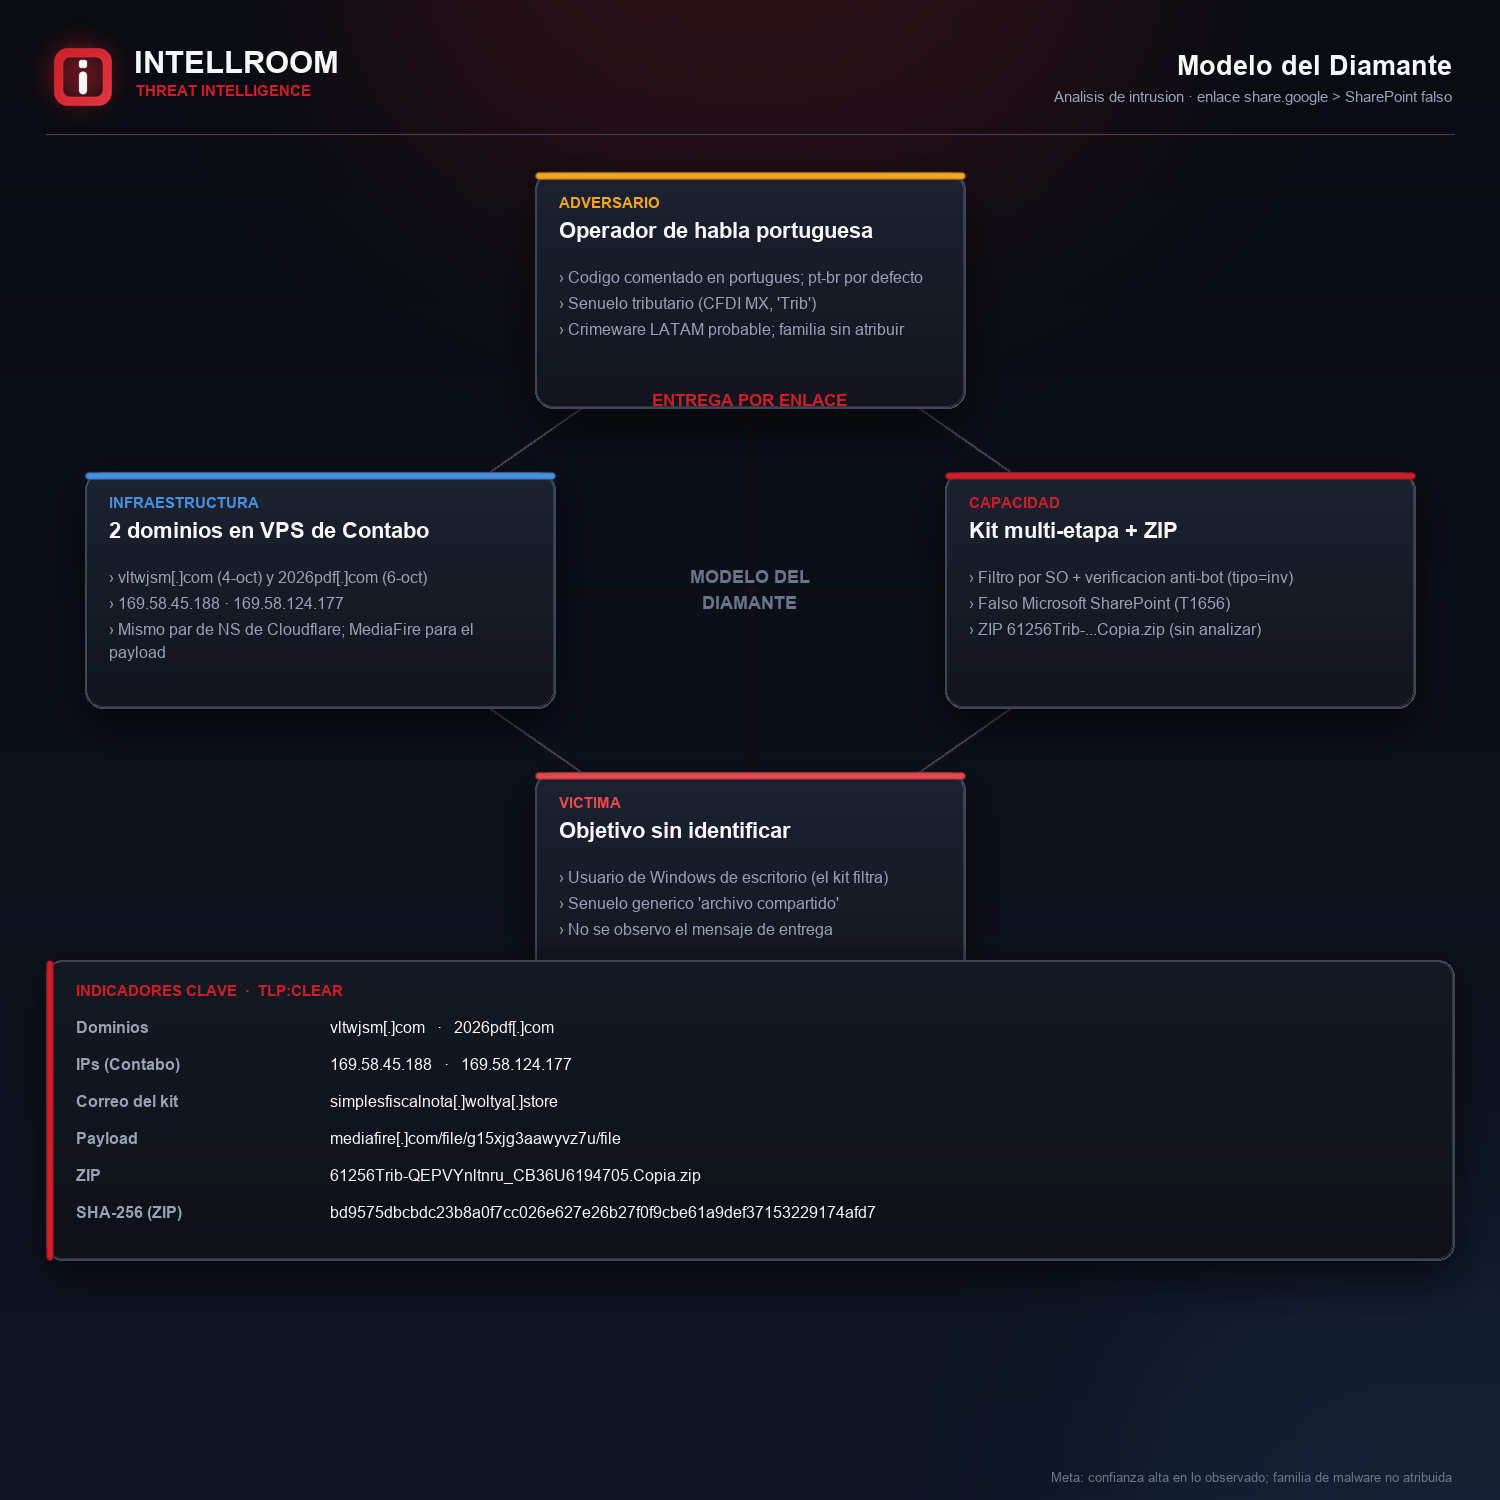
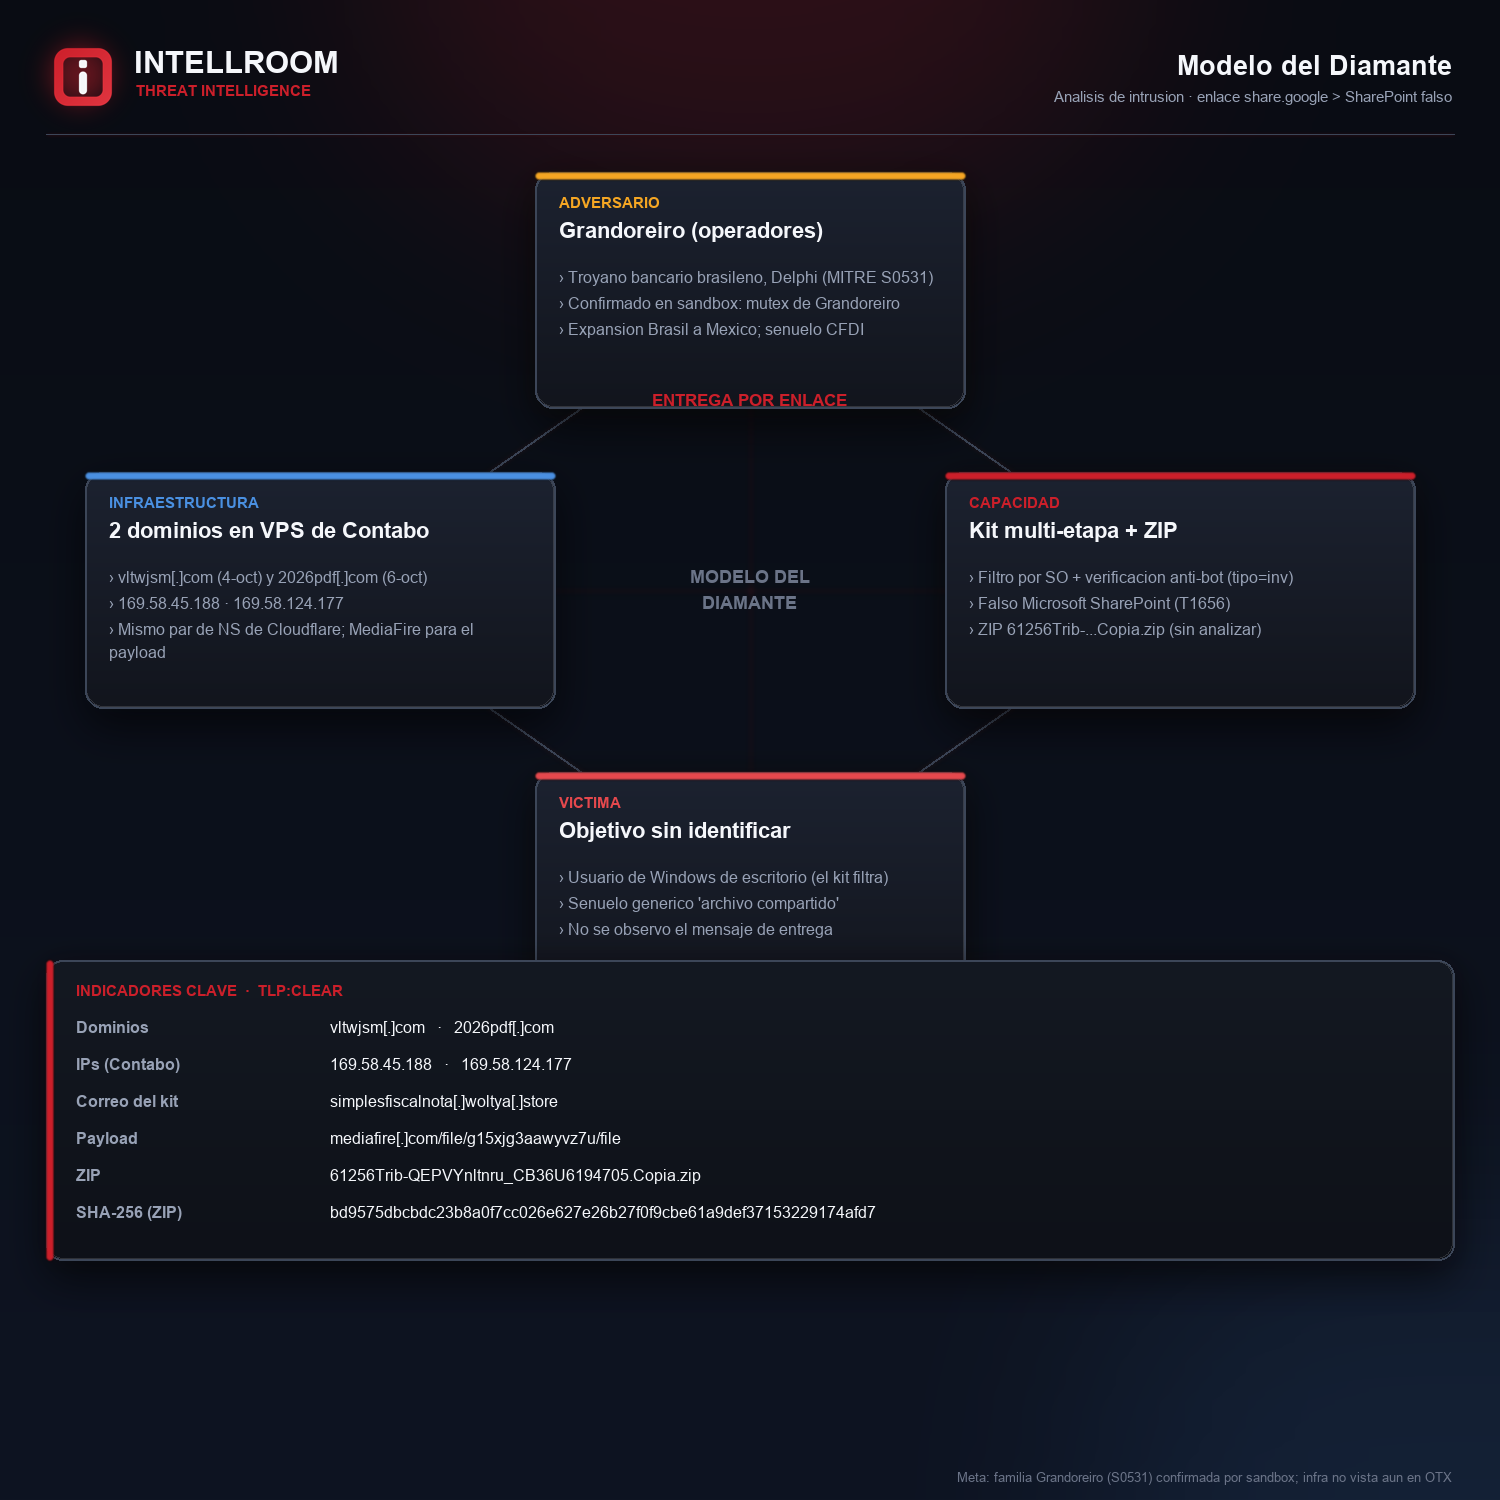
ShareGoogle_SharePoint_MediaFire: atribucion Grandoreiro (S0531) y segundo sample
Confirmado Grandoreiro (banker Delphi, MITRE S0531) por analisis en sandbox de un
segundo sample de la misma campana (enlace share.google/I91XnAATjc2UHTXwT, ZIP con
VBScript que suelta 6TzIetO%8xGvA2Ofo.exe). Diagramas, ficha, iocs.txt y README
actualizados. TLP:CLEAR.

Changed region(s): [[0.368, 0.1533, 0.6133, 0.2453], [0.644, 0.9813, 0.9813, 1.0]]

diff --git a/Campaign/ShareGoogle_SharePoint_MediaFire/README.md b/Campaign/ShareGoogle_SharePoint_MediaFire/README.md
@@ -1,6 +1,8 @@
 # Phishing por enlace de Google a SharePoint falso con ZIP en MediaFire
 
-**TLP:CLEAR** · Analisis Intellroom CTI · 2026-10-13
+**TLP:CLEAR** · Analisis Intellroom CTI · 2026-10-13 (atribucion act. 2026-10-14)
+
+**Atribucion: Grandoreiro** (troyano bancario brasileno, Delphi, MITRE [S0531](https://attack.mitre.org/software/S0531/)), confirmada por analisis en sandbox (ANY.RUN) de un segundo sample de la misma campana (mutex de Grandoreiro). La infraestructura de esta campana no figura aun en AlienVault; el aporte propio es el vector de entrega (share.google + SharePoint falso + MediaFire).
 
 Un enlace acortado de Google (`share.google`) abre, en dos saltos, una cadena de phishing que termina entregando un archivo ZIP. El envoltorio de Google sirve para que el filtro de correo y la persona solo vean un dominio de confianza. La cadena filtra por sistema operativo (solo entrega a Windows de escritorio) e incorpora una verificacion anti-bot invisible basada en tiempo; el codigo del kit esta comentado en portugues y traduce las paginas a seis idiomas, con senuelo de tematica tributaria.
 
@@ -13,6 +15,8 @@ Dos capas de evasion destacan: el filtro por sistema operativo deja a Mac y Linu
 Lista completa con accion por linea en [`iocs.txt`](iocs.txt). Ficha completa en [`ShareGoogle_SharePoint_MediaFire_14102026.txt`](ShareGoogle_SharePoint_MediaFire_14102026.txt).
 
 Dominios `vltwjsm[.]com`, `2026pdf[.]com`, `simplesfiscalnota[.]woltya[.]store` · IP `169.58.45[.]188`, `169.58.124[.]177` (Contabo) · payload `mediafire[.]com/file/g15xjg3aawyvz7u` · ZIP SHA-256 `bd9575db...74afd7` (informado por MediaFire).
+
+**Segundo sample** (mismo kit, Grandoreiro en sandbox): enlace `share.google/I91XnAATjc2UHTXwT`, ZIP `54192SerieX304.GX1K4A-UGLZR.Elec.zip` con un VBScript (`_306042Impues-3949_xuley.Procuzzmcp.vbs`, CRC32 `C5B2659C`) que suelta `C:\Users\Public\6TzIetO%8xGvA2Ofo.exe`. SHA-256 pendiente (tarea ANY.RUN).
 
 ## Figuras
 
